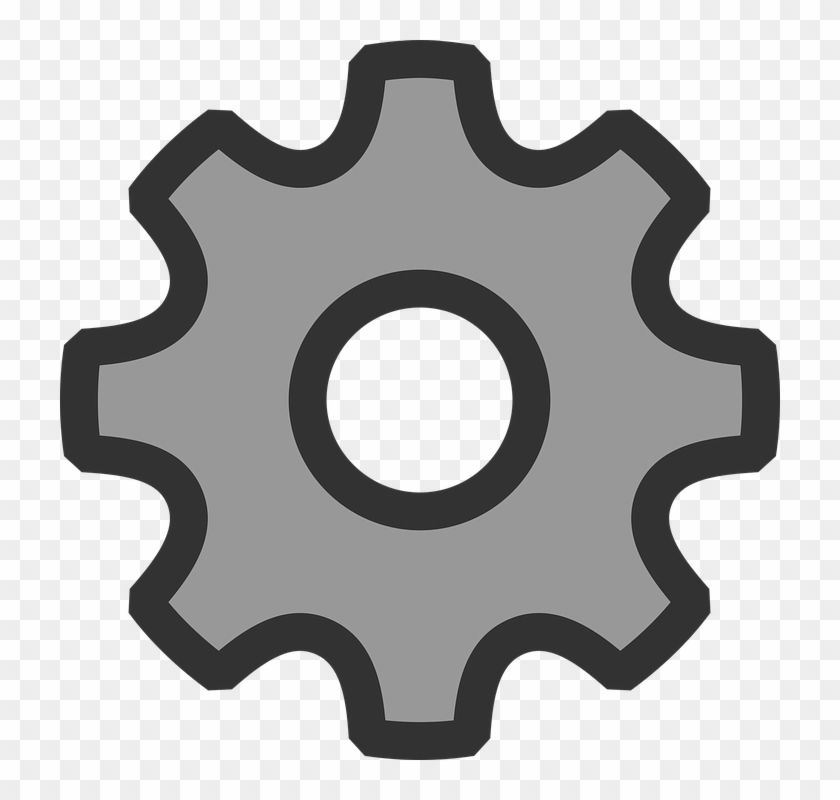
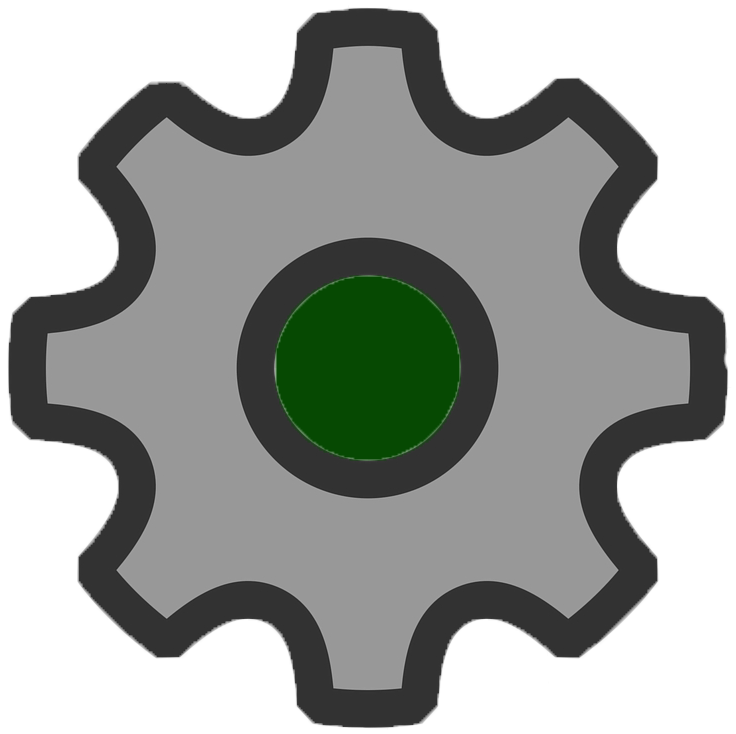
V2.280 bug fixes and rule engine tweaks

Changed region(s): [[0.0, 0.0, 1.0, 1.0], [0.3125, 0.2997, 0.6875, 0.6894]]

diff --git a/housepanel.js b/housepanel.js
@@ -242,7 +242,7 @@ $(document).ready(function() {
 
         $("#uname").on("keydown",function(e) {
             var unameval = $("#uname").val();
-            if ( e.which===13 || e.which===9  ){
+            if ( e.which===13 ){
                 var msg = checkInpval("username", unameval, unamere);
                 if ( msg ) {
                     $("#uname").focus();
@@ -298,7 +298,7 @@ $(document).ready(function() {
         cancelPagemove();
     }
 
-    // finally we wait two seconds then setup page clicks and web sockets
+    // finally we wait one second then setup page clicks and web sockets
     setTimeout(function() {
         if ( pagename==="main" && !cm_Globals.disablepub ) {
             setupPage();
@@ -887,14 +887,8 @@ function setupSliders() {
             
             console.log(ajaxcall + ": id= "+bid+" type= "+linktype+ " value= " + thevalue + " subid= " + subid + " command= " + command + " linkval: ", linkval);
             
-            // handle music volume different than lights
-            var updwait = 100;
-            if ( thetype === "music") {
-                updwait = 1000;
-            }
-
             $.post(cm_Globals.returnURL, 
-                {useajax: ajaxcall, id: bid, type: linktype, value: thevalue, attr: "level", 
+                {useajax: ajaxcall, id: bid, type: linktype, value: thevalue, attr: subid, 
                  subid: subid, hubid: hubnum, command: command, linkval: linkval} );
         }
     });
@@ -2327,7 +2321,8 @@ function updateTile(aid, presult, skiplink) {
                     iconimg = "media/weather/" + iconstr + ".png";
                 }
                 value = "<img src=\"" + iconimg + "\" alt=\"" + iconstr + "\" width=\"80\" height=\"80\">";
-            } else if ( (key === "level" || key === "colorTemperature" || key==="volume" || key==="groupVolume") && $(targetid).slider ) {
+            } else if ( (key === "level" || key === "colorTemperature" || key==="volume") && $(targetid).slider ) {
+                console.log("aid= ", aid, " targetid= ", targetid);
                 $(targetid).slider("value", value);
                 // disable putting values in the slot
                 value = false;

diff --git a/hpserver.js b/hpserver.js
@@ -3844,7 +3844,9 @@ function execRules(rulecaller, item, swtype, istart, testcommands, pvalue) {
                     if ( array_key_exists(companion, allthings[ridx]["value"]) ) {
                         allthings[ridx]["value"][companion] = "::TEXT::" + rvalue;
                         linkinfo = [rswid, rswtype, rsubid, rsubid, "TEXT"];
+                        pushClient(rswid, rswtype, rsubid, allthings[ridx]["value"])
                     }
+
                 // if destination subid isn't found make a user TEXT field
                 } else {
                     addCustom("default", rswid, rswtype, "TEXT", rvalue, rsubid);
@@ -3860,6 +3862,8 @@ function execRules(rulecaller, item, swtype, istart, testcommands, pvalue) {
                 if ( linkinfo==="" ) {
                     if ( rsubid==="level" || rsubid==="colorTemperature" ) {
                         rswattr= "level";
+                    } else if ( rsubid==="volume") {
+                        rswattr= "volume";
                     } else if ( rsubid==="switch" || swtype==="isy" || (swval!=="on" && swval!=="off") ) {
                         rswattr="";
                     } else if ( !rswattr && rswtype!=="isy" ) {

diff --git a/utils.js b/utils.js
@@ -3,6 +3,8 @@
 const devhistory =  ` 
 2.280   Fix momentary buttons and mode handler in groovy file for ST and HE
             - update music and audio image art handling to be more robust
+            - clean up gear icon for editing
+            - rule engine bugfix for attribute results pushed into subid
 2.279   Bugfix for icons in tile editor not showing up
 2.278   Urgent bugfix that caused wrong and duplicate tile numbers for new things
 2.277   Remove dynamic pages in groovy file that messes up OAUTH from HP side

diff --git a/tileeditor.css b/tileeditor.css
@@ -824,7 +824,7 @@ div.editpage, div.delpage, div.addpage {
     cursor: pointer;
 }
 div.editpage, div.editlink {
-    background-color: rgba(255, 255, 255, 0.01);
+    border: none;
     background-image: url("media/editgear.png");
     background-size: 32px;
     left: 0px;
@@ -839,7 +839,7 @@ div.cmzlink {
 }
 div.editlink, div.dellink, div.cmzlink {
     top: 12px;
-    width: 28px; height: 28px;
+    width: 24px; height: 24px;
 }
 div.editlink {
     width: 32px; height: 32px;
